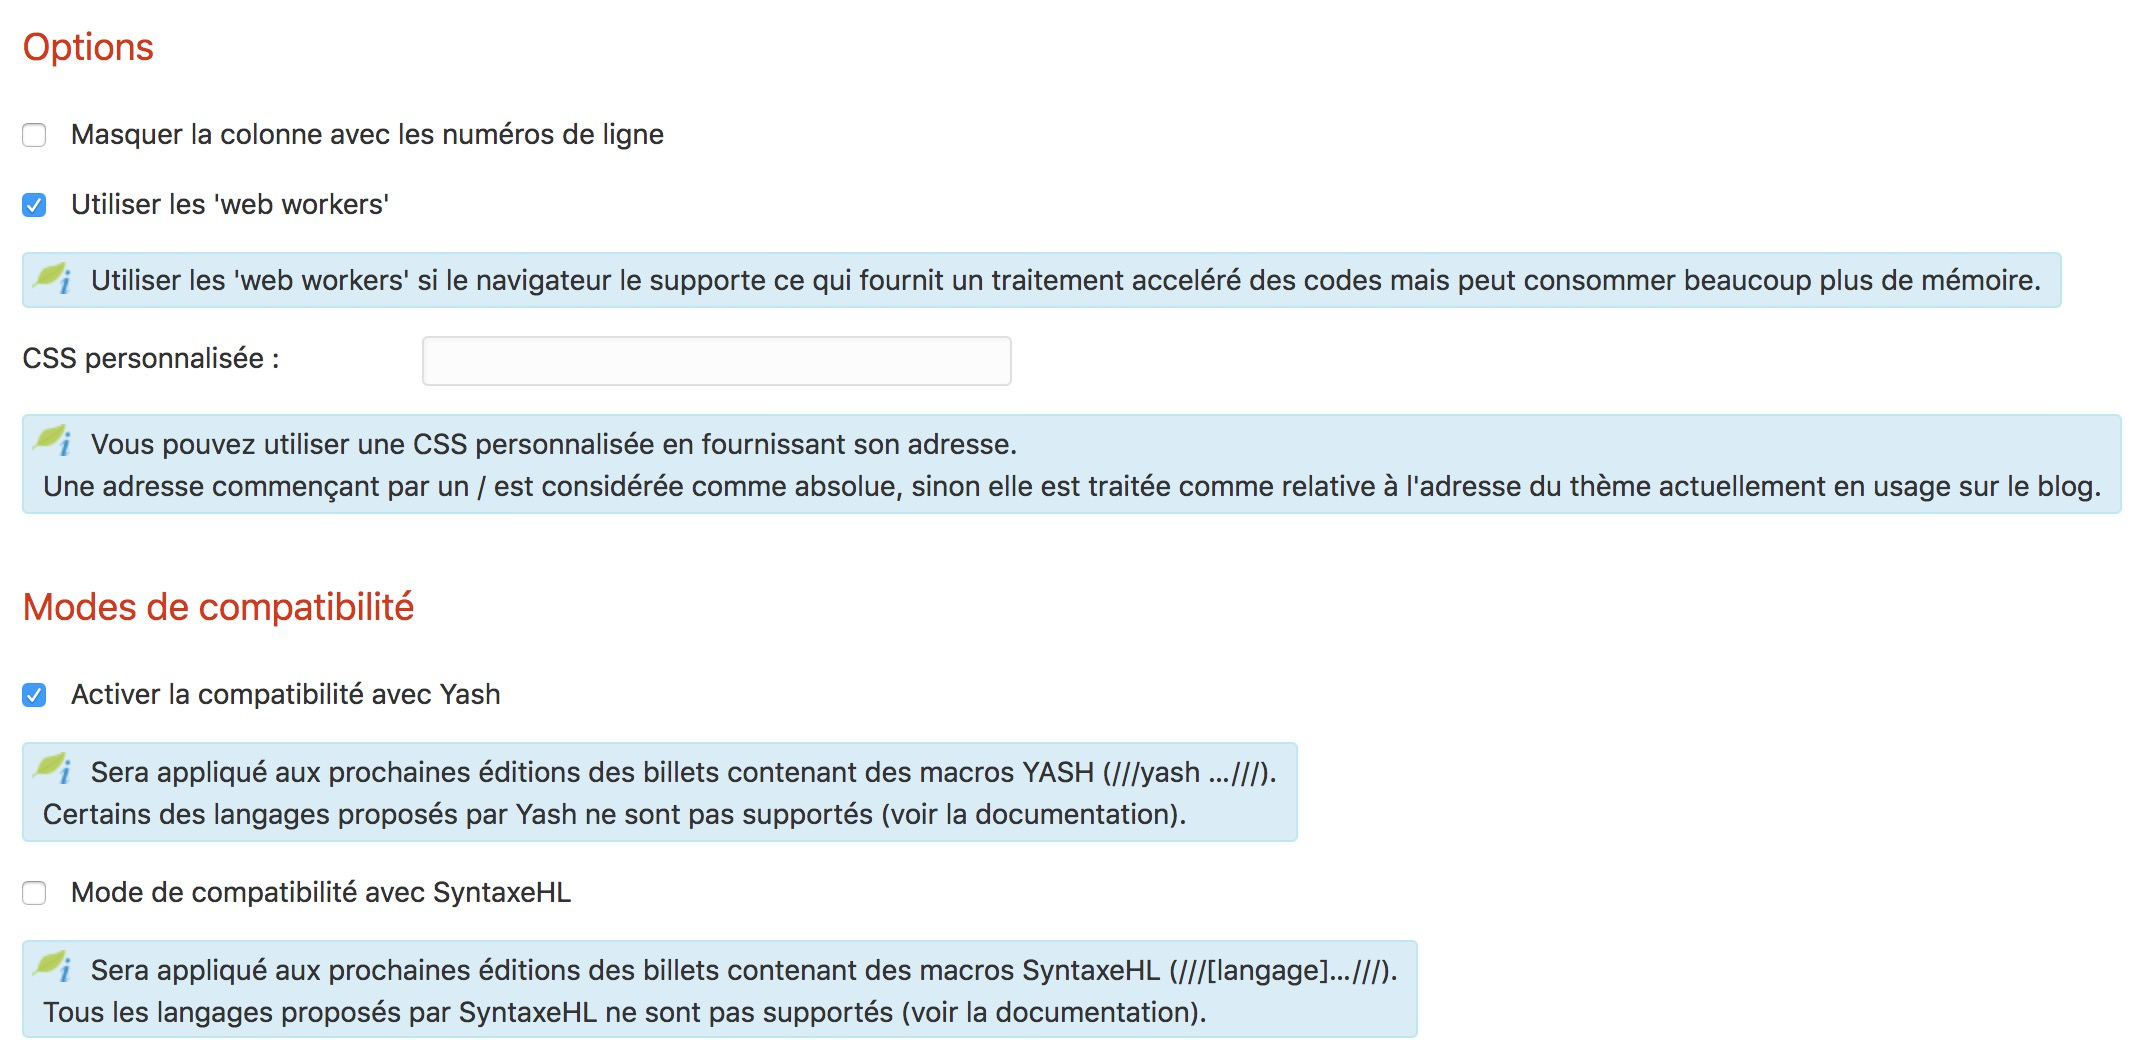
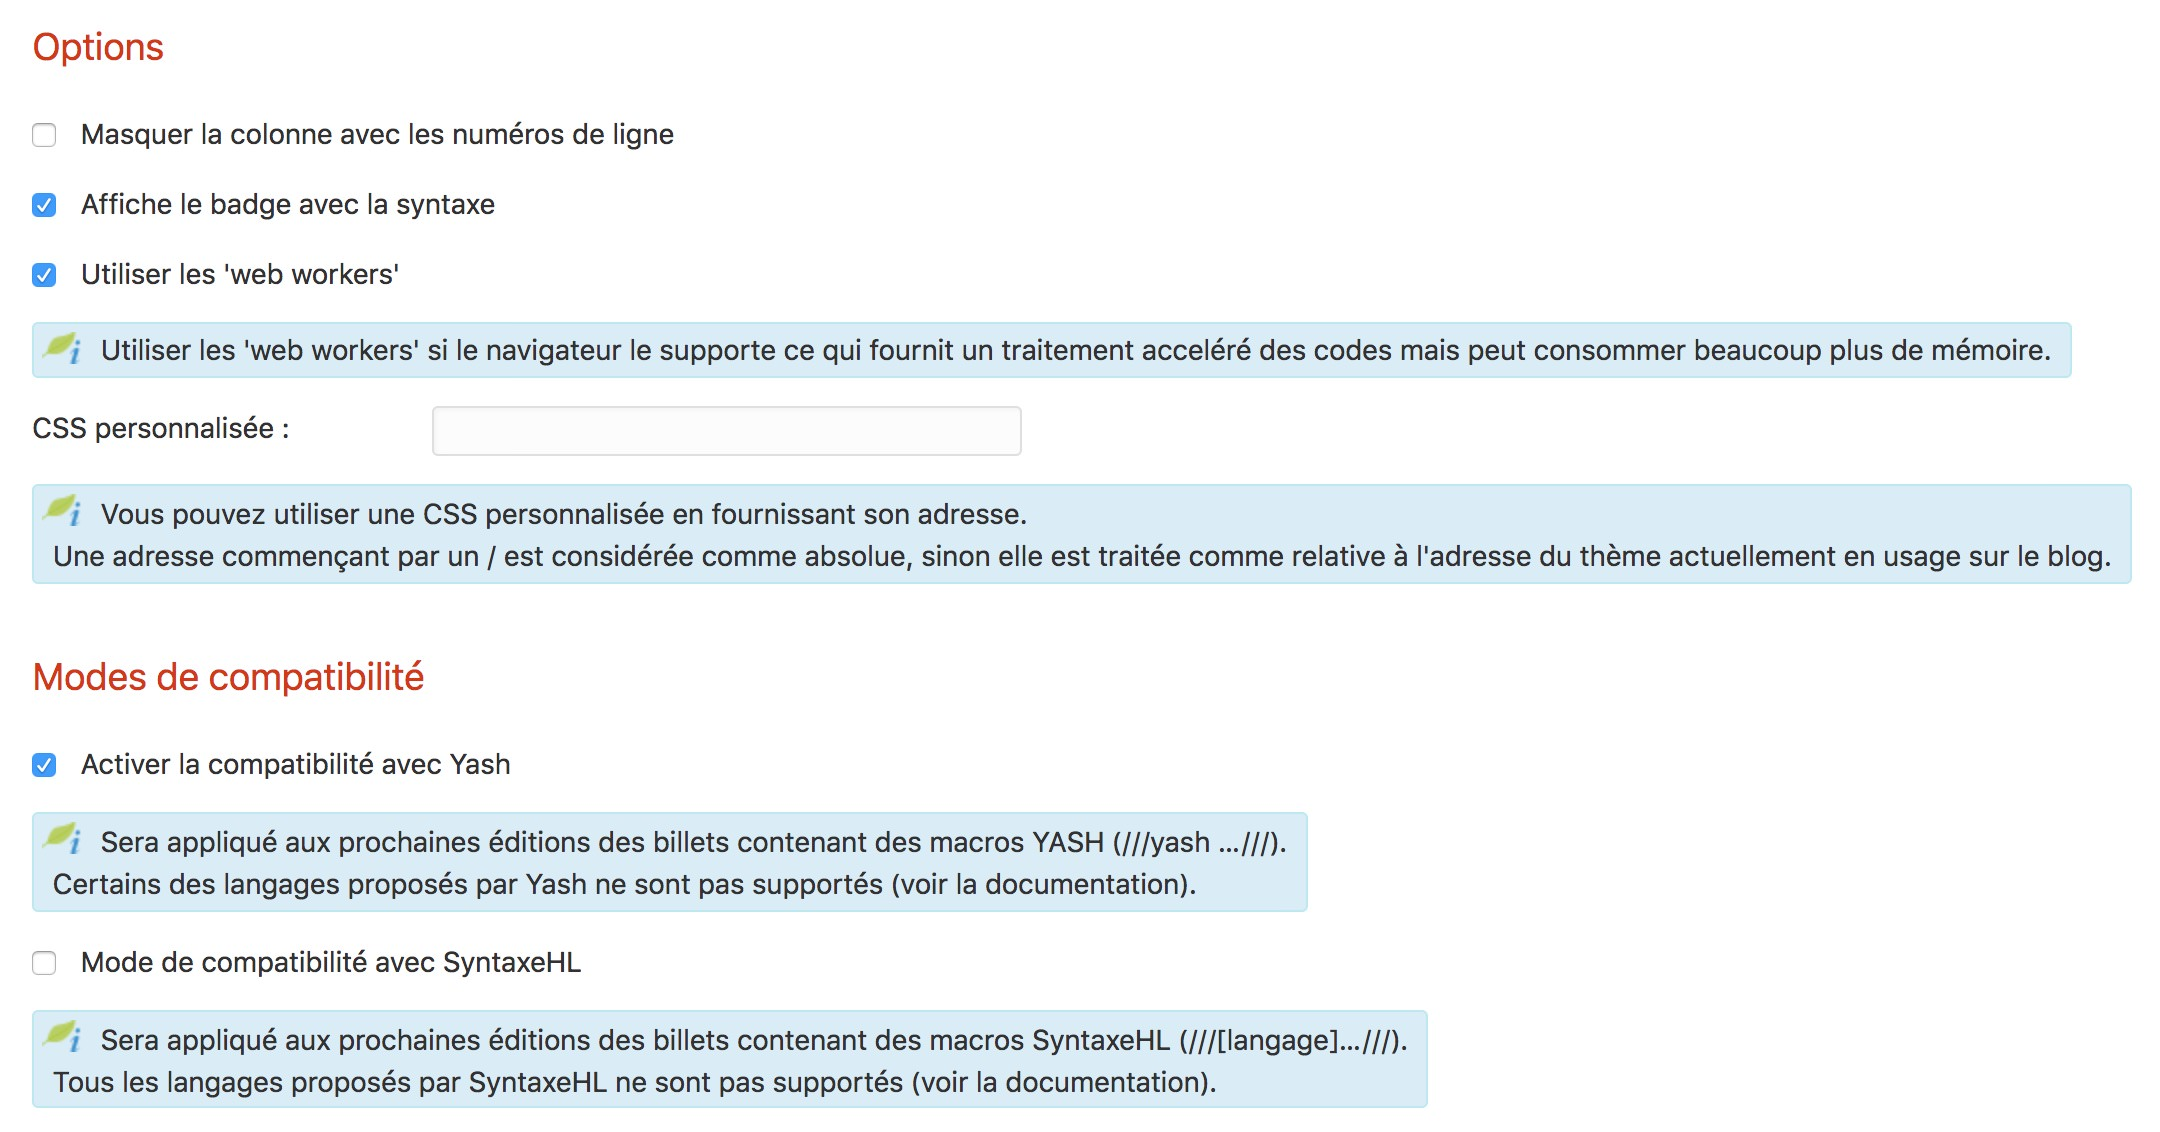
Documentation update for 0.2

Changed region(s): [[0.0, 0.0934, 0.9991, 0.5292], [0.0, 0.5604, 0.6556, 0.9651], [0.0, 0.0311, 0.0937, 0.0623]]

diff --git a/mkdocs/docs/user-guide/settings.md b/mkdocs/docs/user-guide/settings.md
@@ -28,6 +28,8 @@ Options
 
 You can **hide the gutter** containing the line-numbers of the rendered code by the plugin.
 
+You can display a **badge with the language** (specified or detected) of your code fragment.
+
 You may use **web workers** to provide parallel processing of your code samples (may be useful with big code samples on page). Enable this mode may consume a **lot more memory** in browser's client.
 
 You may also provide a **user-defined CSS** URL to be used rather than the selected one. The URL beginning with a ```/``` is assumed to be **absolute** else it will be relative to the theme URL used for the blog.
